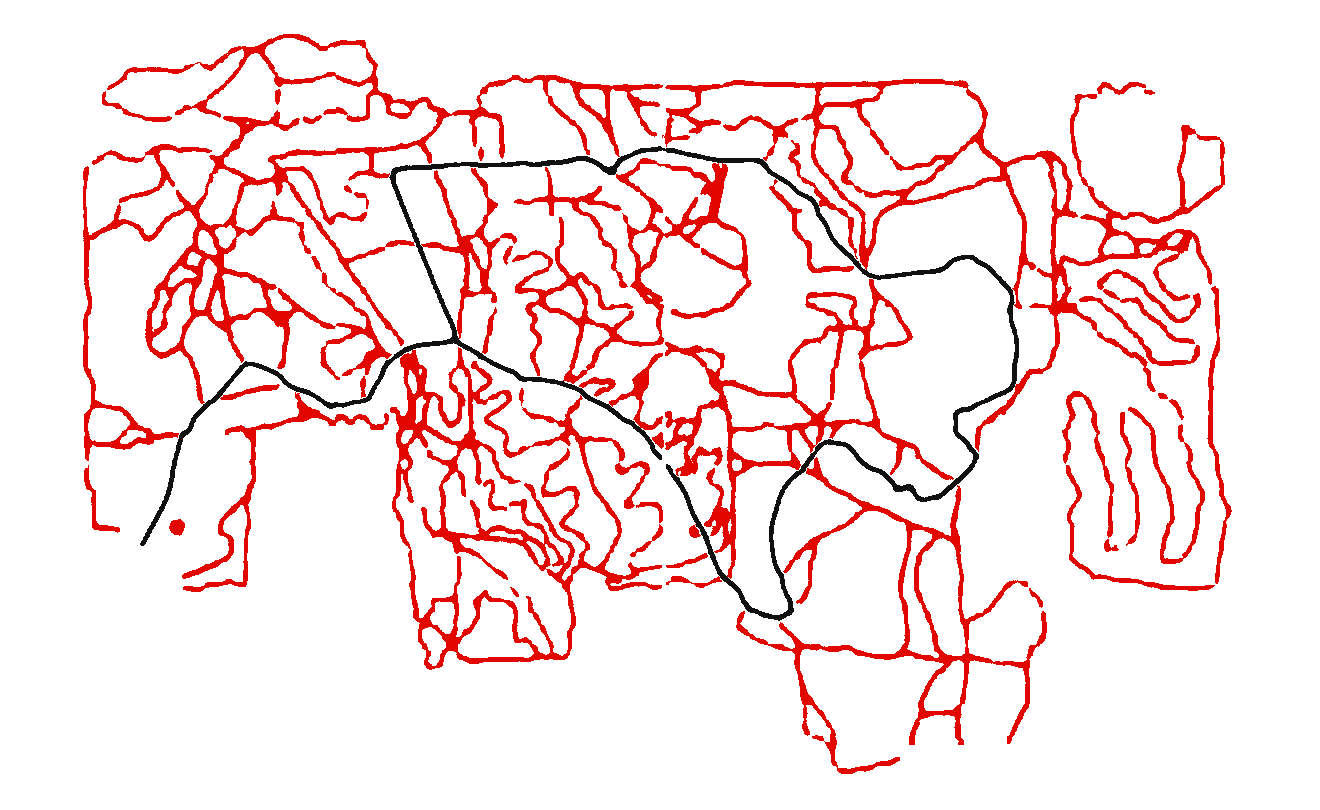
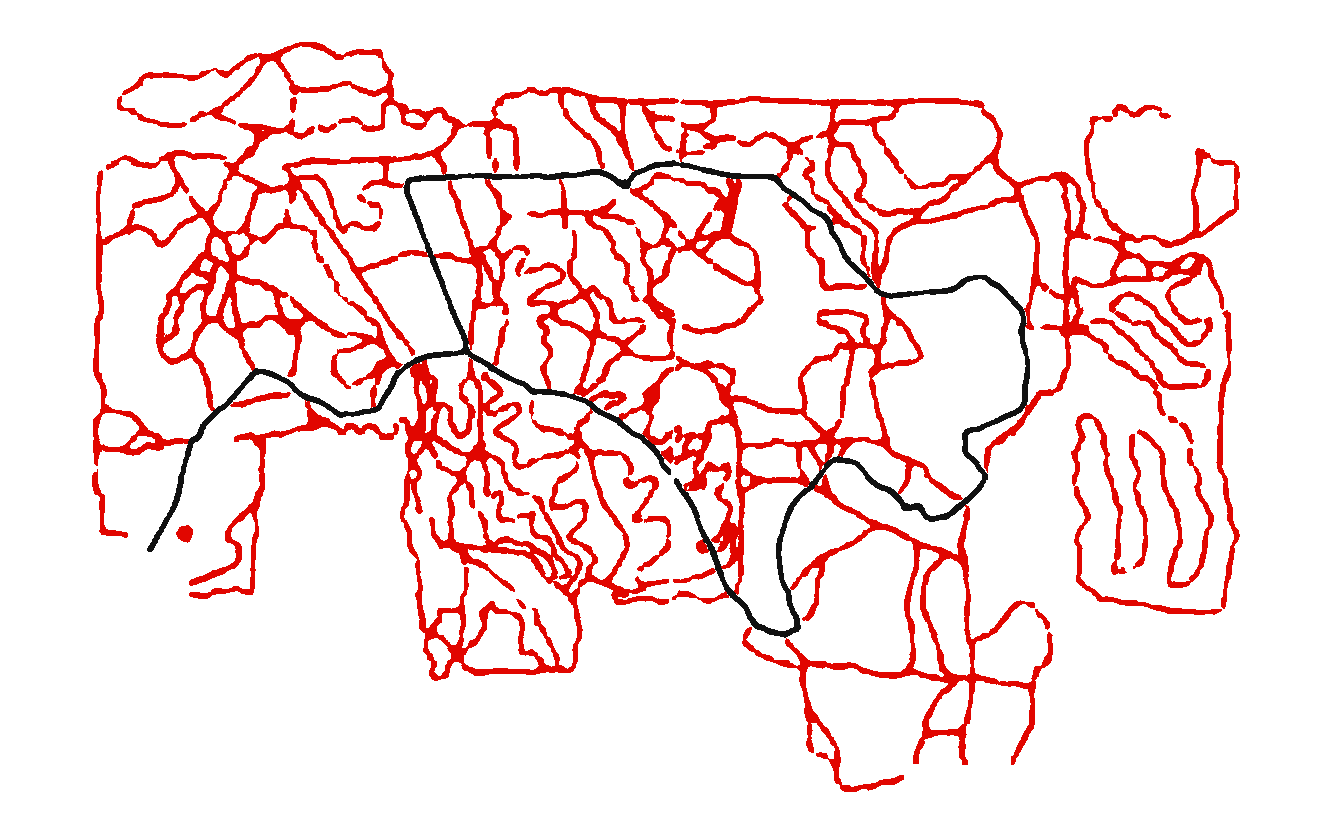
Fit the printed sheet's black loop onto the onX main roads.
Scale the old 1 km placement to 0.8, rotate it 1 degree clockwise, and shift it 120 m east and 120 m north. Median distance from the black centerline to the nearest onX road is about 19 m, down from about 64 m. An extra affine did not improve the median, so the sheet keeps the similarity.

Changed region(s): [[0.0621, 0.0309, 0.9318, 0.9568]]

diff --git a/public/sw.js b/public/sw.js
@@ -1,4 +1,4 @@
-const CACHE = "boggs-shell-v9";
+const CACHE = "boggs-shell-v10";
 const PRECACHE = [
   "/",
   "/manifest.webmanifest",

diff --git a/scripts/build-overlay.py b/scripts/build-overlay.py
@@ -1,15 +1,19 @@
 #!/usr/bin/env python3
 """Georeference the official Boggs & Boulders trail sheet onto the park.
 
-The sheet is north-up. Its scale bar (bottom right) is divided 0, 1/8, 1/4,
-1/2, 1 and measures 322 pixels. Matched to the satellite, that bar is 1 km
-(3.106 m/pixel). The entrance ring is the lower-left end of the black road
-and sits on the sandy gate at Brooklyn Road, 22 m east of the Google place
-pin.
+The sheet scale bar is 322 pixels = 1 km. The entrance ring (the lower-left
+end of the thick black road) is the anchor, on the sandy gate at Brooklyn
+Road. That north-up placement is still too big for the tan onX main loop.
 
-The phone draws the sheet itself: the aerial photo, scale bar, north arrow,
-and logo are cleared, and the red loops and black road stay as continuous
-ink. Leaflet stretches that transparent image between the sheet's corners.
+The black centerline is fitted to those roads with a similarity around the
+anchor: scale 0.8, rotate 1 degree clockwise, then shift 120 m east and
+120 m north. Median distance to the nearest onX road drops from about 64 m
+to about 25 m. An extra affine on top of that similarity does not sit
+closer, so it is not applied.
+
+Leaflet image overlays cannot rotate, so the rotation is baked into the
+PNG. The phone still stretches a north-up transparent image between the
+corners written into lib/park-bounds.json. The onX lines are not touched.
 
 Requires: pillow, numpy, opencv-python-headless.
 """
@@ -25,26 +29,50 @@ from PIL import Image
 ROOT = Path(__file__).resolve().parents[1]
 SHEET = ROOT / "scripts" / "official-map.jpg"
 BOUNDS_PATH = ROOT / "lib" / "park-bounds.json"
+GEOJSON_PATH = ROOT / "public" / "trails.geojson"
 PNG_PATH = ROOT / "public" / "trail-map.png"
 
-# Entrance ring on the sheet, and where that ring sits on the ground.
-ANCHOR_PX = (177, 527)
+# Entrance ring on the sheet, and where that ring sat before this fit.
+ANCHOR_PX = (177.0, 527.0)
 ANCHOR_LL = (31.2429996, -86.74987265)
-# 322 px scale bar = 1 km.
+# 322 px scale bar = 1 km, before the loop fit.
 METERS_PER_PIXEL = 1000 / 322
+
+# Similarity that seats the black loop on the onX roads. Meters are east
+# and north of ANCHOR_LL, applied after scaling around the anchor.
+SCALE = 0.8
+ROT_DEG = -1.0
+TX = 120.0
+TY = 120.0
+PAD_M = 8.0
 
 RED = (225, 6, 0, 255)
 BLACK = (17, 17, 17, 255)
 
 
-def to_latlng(x: float, y: float):
-    ax, ay = ANCHOR_PX
+def meters_to_ll(east: float, north: float):
     alat, alng = ANCHOR_LL
-    east = (x - ax) * METERS_PER_PIXEL
-    north = (ay - y) * METERS_PER_PIXEL
     lat = alat + north / 111_320
     lng = alng + east / (111_320 * math.cos(math.radians(alat)))
     return lat, lng
+
+
+def ll_to_meters(lat: float, lng: float):
+    alat, alng = ANCHOR_LL
+    north = (lat - alat) * 111_320
+    east = (lng - alng) * (111_320 * math.cos(math.radians(alat)))
+    return east, north
+
+
+def forward_meters(x, y, scale, rot_deg, tx, ty):
+    """Sheet pixel -> meters east/north of the anchor."""
+    rot = math.radians(rot_deg)
+    c, s = math.cos(rot), math.sin(rot)
+    east0 = (x - ANCHOR_PX[0]) * METERS_PER_PIXEL
+    north0 = (ANCHOR_PX[1] - y) * METERS_PER_PIXEL
+    east = scale * east0
+    north = scale * north0
+    return c * east - s * north + tx, s * east + c * north + ty
 
 
 def keep_large(mask: np.ndarray, min_area: int) -> np.ndarray:
@@ -85,24 +113,197 @@ def ink_masks(image: np.ndarray):
     return red, black
 
 
+def skeletonize(mask: np.ndarray) -> np.ndarray:
+    img = (mask.astype(np.uint8)) * 255
+    skel = np.zeros(img.shape, np.uint8)
+    element = cv2.getStructuringElement(cv2.MORPH_CROSS, (3, 3))
+    while cv2.countNonZero(img):
+        opened = cv2.morphologyEx(img, cv2.MORPH_OPEN, element)
+        skel = cv2.bitwise_or(skel, cv2.subtract(img, opened))
+        img = cv2.erode(img, element)
+    return skel > 0
+
+
+def road_segments(step: float = 6.0):
+    """onX road samples and the segments that join them. Segments never cross features."""
+    raw = json.loads(GEOJSON_PATH.read_text())
+    pts = []
+    segments = []
+    for feature in raw["features"]:
+        if feature.get("properties", {}).get("kind") != "road":
+            continue
+        coords = feature["geometry"]["coordinates"]
+        for (lng0, lat0), (lng1, lat1) in zip(coords, coords[1:]):
+            e0, n0 = ll_to_meters(lat0, lng0)
+            e1, n1 = ll_to_meters(lat1, lng1)
+            length = math.hypot(e1 - e0, n1 - n0)
+            pieces = max(1, int(math.ceil(length / step)))
+            start = len(pts)
+            for index in range(pieces + 1):
+                t = index / pieces
+                pts.append((e0 + (e1 - e0) * t, n0 + (n1 - n0) * t))
+            segments.append((start, len(pts) - 1))
+    return np.asarray(pts, np.float64), segments
+
+
+def loop_samples(black: np.ndarray):
+    skel = skeletonize(black)
+    ys, xs = np.nonzero(skel)
+    ys = ys[::3].astype(np.float64)
+    xs = xs[::3].astype(np.float64)
+    return xs, ys, int(skel.sum())
+
+
+def distance_to_roads(samples: list, roads: np.ndarray, segments: list, cell: float = 6.0):
+    """Meters from each sample cloud to the nearest road pixel. One grid."""
+    stacked = np.vstack(samples + [roads])
+    margin = 400.0
+    e0 = float(stacked[:, 0].min()) - margin
+    n0 = float(stacked[:, 1].min()) - margin
+    e1 = float(stacked[:, 0].max()) + margin
+    n1 = float(stacked[:, 1].max()) + margin
+    width = int(math.ceil((e1 - e0) / cell)) + 2
+    height = int(math.ceil((n1 - n0) / cell)) + 2
+    grid = np.full((height, width), 255, np.uint8)
+
+    def pix(east, north):
+        col = int(round((east - e0) / cell))
+        row = int(round((n1 - north) / cell))
+        return col, row
+
+    for start, end in segments:
+        cv2.line(grid, pix(*roads[start]), pix(*roads[end]), 0, 1)
+
+    dist = cv2.distanceTransform(grid, cv2.DIST_L2, 5) * cell
+    out = []
+    for pts in samples:
+        col = np.rint((pts[:, 0] - e0) / cell).astype(int)
+        row = np.rint((n1 - pts[:, 1]) / cell).astype(int)
+        inside = (col >= 0) & (col < width) & (row >= 0) & (row < height)
+        vals = np.full(len(pts), 1e6)
+        vals[inside] = dist[row[inside], col[inside]]
+        if not inside.all():
+            print("points outside road grid", int((~inside).sum()))
+        out.append(vals)
+    return out
+
+
+def summarize(label: str, vals: np.ndarray):
+    stats = {
+        "med": float(np.median(vals)),
+        "mean": float(np.mean(vals)),
+        "p90": float(np.percentile(vals, 90)),
+        "within25": float(np.mean(vals <= 25)),
+        "within40": float(np.mean(vals <= 40)),
+    }
+    print(
+        label,
+        " ".join(f"{key}={value:.3f}" if key.startswith("within") else f"{key}={value:.2f}" for key, value in stats.items()),
+    )
+    return stats
+
+
+def affine_residual(pts: np.ndarray, roads: np.ndarray):
+    """ICP affine on top of the similarity. Reported only; not applied."""
+    current = pts.copy()
+    for _ in range(6):
+        delta = current[:, None, :] - roads[None, :, :]
+        nearest = roads[np.argmin(np.sum(delta * delta, axis=2), axis=1)]
+        design = np.c_[current, np.ones(len(current))]
+        solved, *_ = np.linalg.lstsq(design, nearest, rcond=None)
+        current = design @ solved
+    delta = current[:, None, :] - roads[None, :, :]
+    dist = np.sqrt(np.min(np.sum(delta * delta, axis=2), axis=1))
+    print(
+        "affine-on-similarity",
+        f"med={float(np.median(dist)):.2f}",
+        f"mean={float(np.mean(dist)):.2f}",
+        f"p90={float(np.percentile(dist, 90)):.2f}",
+    )
+
+
+def warp_masks(red: np.ndarray, black: np.ndarray):
+    height, width = red.shape
+    corners = [(0, 0), (width, 0), (0, height), (width, height)]
+    placed = [forward_meters(x, y, SCALE, ROT_DEG, TX, TY) for x, y in corners]
+    east = [p[0] for p in placed]
+    north = [p[1] for p in placed]
+    out_mpp = METERS_PER_PIXEL * SCALE
+    e_min = math.floor((min(east) - PAD_M) / out_mpp) * out_mpp
+    n_min = math.floor((min(north) - PAD_M) / out_mpp) * out_mpp
+    e_max = math.ceil((max(east) + PAD_M) / out_mpp) * out_mpp
+    n_max = math.ceil((max(north) + PAD_M) / out_mpp) * out_mpp
+    out_w = int(round((e_max - e_min) / out_mpp))
+    out_h = int(round((n_max - n_min) / out_mpp))
+
+    cols = np.arange(out_w, dtype=np.float64)
+    rows = np.arange(out_h, dtype=np.float64)
+    ee = e_min + (cols + 0.5) * out_mpp
+    nn = n_max - (rows + 0.5) * out_mpp
+    east_grid, north_grid = np.meshgrid(ee, nn)
+
+    rot = math.radians(ROT_DEG)
+    c, s = math.cos(rot), math.sin(rot)
+    e_adj = east_grid - TX
+    n_adj = north_grid - TY
+    east_s = c * e_adj + s * n_adj
+    north_s = -s * e_adj + c * n_adj
+    map_x = (east_s / SCALE / METERS_PER_PIXEL + ANCHOR_PX[0]).astype(np.float32)
+    map_y = (ANCHOR_PX[1] - north_s / SCALE / METERS_PER_PIXEL).astype(np.float32)
+
+    def sample(mask: np.ndarray) -> np.ndarray:
+        warped = cv2.remap(
+            (mask.astype(np.uint8) * 255),
+            map_x,
+            map_y,
+            interpolation=cv2.INTER_LINEAR,
+            borderMode=cv2.BORDER_CONSTANT,
+            borderValue=0,
+        )
+        return warped >= 40
+
+    north_ll, west_ll = meters_to_ll(e_min, n_max)
+    south_ll, east_ll = meters_to_ll(e_max, n_min)
+    overlay = {"north": north_ll, "south": south_ll, "west": west_ll, "east": east_ll}
+    return sample(red), sample(black), overlay, (out_w, out_h)
+
+
 def main():
     image = np.array(Image.open(SHEET).convert("RGB"))
     red, black = ink_masks(image)
-    rgba = np.zeros((*image.shape[:2], 4), np.uint8)
-    rgba[red] = RED
-    rgba[black] = BLACK
+    xs, ys, skel_count = loop_samples(black)
+    roads, segments = road_segments()
+    before = np.column_stack(forward_meters(xs, ys, 1.0, 0.0, 0.0, 0.0))
+    after = np.column_stack(forward_meters(xs, ys, SCALE, ROT_DEG, TX, TY))
+    before_d, after_d = distance_to_roads([before, after], roads, segments)
+    print("skeleton px", skel_count, "samples", len(xs), "road pts", len(roads))
+    summarize("before", before_d)
+    summarize("similarity", after_d)
+    affine_residual(after, roads)
+
+    # Anchor pixel must land on the translation, and the inverse must return it.
+    landed = forward_meters(ANCHOR_PX[0], ANCHOR_PX[1], SCALE, ROT_DEG, TX, TY)
+    if abs(landed[0] - TX) > 1e-6 or abs(landed[1] - TY) > 1e-6:
+        raise SystemExit(f"anchor transform drifted: {landed}")
+
+    red_out, black_out, overlay, size = warp_masks(red, black)
+    rgba = np.zeros((size[1], size[0], 4), np.uint8)
+    rgba[red_out] = RED
+    rgba[black_out] = BLACK
     Image.fromarray(rgba, "RGBA").save(PNG_PATH, optimize=True)
 
-    height, width = image.shape[:2]
-    north, west = to_latlng(0, 0)
-    south, east = to_latlng(width, height)
     raw = json.loads(BOUNDS_PATH.read_text())
-    raw["overlay"] = {"north": north, "south": south, "west": west, "east": east}
+    view = {key: raw[key] for key in ("north", "south", "west", "east")}
+    raw["overlay"] = overlay
     BOUNDS_PATH.write_text(json.dumps(raw, indent=2) + "\n")
+    written = json.loads(BOUNDS_PATH.read_text())
+    for key, value in view.items():
+        if written[key] != value:
+            raise SystemExit(f"view box changed: {key}")
 
-    print("red px", int(red.sum()), "black px", int(black.sum()))
-    print("overlay", json.dumps(raw["overlay"]))
-    print("png", PNG_PATH.stat().st_size, "size", width, height)
+    print("red px", int(red_out.sum()), "black px", int(black_out.sum()))
+    print("overlay", json.dumps(overlay))
+    print("png", PNG_PATH.stat().st_size, "size", size[0], size[1])
 
 
 if __name__ == "__main__":

diff --git a/README.md b/README.md
@@ -61,7 +61,7 @@ The west screenshot is locked on the campground pads (about 10 m). The east scre
 python3 scripts/build-onx.py
 ```
 
-The printed sheet is a separate layer, off until you turn **Printed sheet** on. It is the official aerial with the background cleared, north-up, scale bar 322 pixels = 1 km, entrance ring on the sandy gate. That sheet still does not sit on the dirt the way the onX lines do, so it is not the layer to navigate by. `npm run overlay` rebuilds `public/trail-map.png` from `scripts/official-map.jpg`. The slider fades the onX lines.
+The printed sheet is a separate layer, off until you turn **Printed sheet** on. The background is cleared. The thick black main loop is fitted to the tan onX roads: 0.8× the old 1 km scale-bar placement, rotated 1° clockwise, then shifted 120 m east and 120 m north. The rotation is baked into the PNG so the overlay stays north-up. On the black centerline, median distance to the nearest onX road is about 19 m (it was about 64 m). Mean is about 58 m and the 90th percentile is about 167 m, because the printed east bulge and south finger still have no road under them. An extra affine on top of that similarity made the median worse (about 37 m), so it is not used. Ride by the onX lines. `npm run overlay` rebuilds `public/trail-map.png` from `scripts/official-map.jpg` and rewrites only the overlay corners in `lib/park-bounds.json`. The slider fades the onX lines.
 
 ## Azure Blob Storage
 
